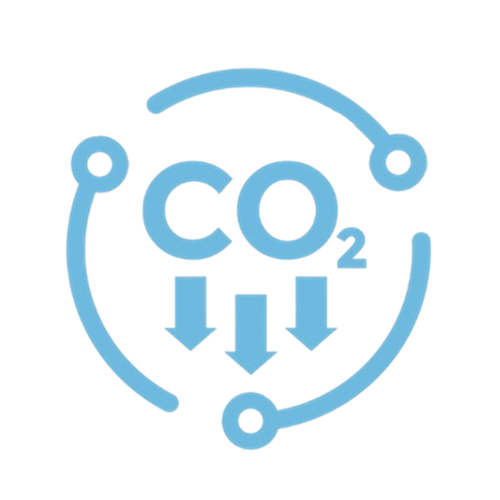
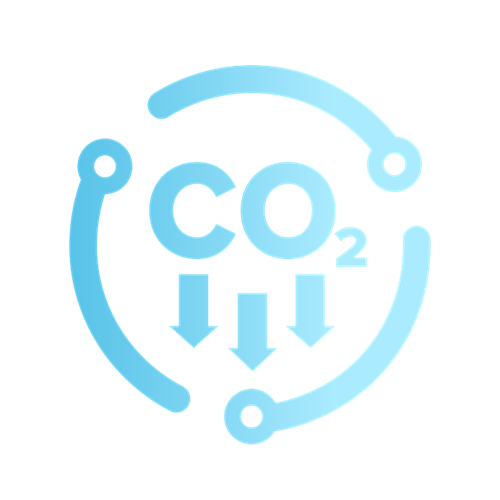
update images

Changed region(s): [[0.12, 0.27, 0.75, 0.84], [0.42, 0.45, 0.87, 0.9], [0.3, 0.12, 0.87, 0.39]]

diff --git a/oxygen-economy.html b/oxygen-economy.html
@@ -106,7 +106,7 @@
 
   <section class="oxygen-economy py-5 bg-light" style="border-top: 1px solid #85d0f8">
     <div class="container-fluid">
-      <div class="container py-4">
+      <div class="container py-5">
         <div class="row align-items-center pb-5">
           <div class="col-lg-8 wow fadeInLeft">
             <h1 class="display-4 text-capitalize text-dark mb-3">
@@ -268,8 +268,8 @@
                   <div class="card-inner">
                     <div class="card-front">
                       <div class="bg-white">
-                        <img src="asset/img/oxygen-economy/water.png" class="img-fluid rounded-top-4 d-block mx-auto"
-                          alt="tree" style="width: 180px" />
+                        <img src="asset/img/oxygen-economy/water-drop.png"
+                          class="img-fluid rounded-top-4 d-block mx-auto" alt="tree" style="width: 180px" />
                       </div>
                       <p class="text-dark text-center mt-3">Water<br />Purification</p>
                     </div>
@@ -544,7 +544,7 @@
             <div class="row g-4 pb-3">
               <div class="col-sm-6 wow fadeInUp" data-wow-delay="0.5s">
                 <div class="bg-light rounded">
-                  <img src="asset/img/oxygen-economy/a-vision-for-the-future-blue.png" class="card-img-top" alt="blog"
+                  <img src="asset/img/oxygen-economy/a-vision-for-the-future-blue.jpg" class="card-img-top" alt="blog"
                     style="width: 100%" />
                 </div>
                 <div class="card-body" style="padding: 10px 0 5px 0">

diff --git a/index.html b/index.html
@@ -107,7 +107,7 @@
   <!-- Home Start -->
   <section id="home" class="bg-light py-5" style="border-top: 1px solid #79b083">
     <div class="container-fluid">
-      <div class="container pt-4 pb-5">
+      <div class="container py-5">
         <div class="row align-items-center">
           <div class="col-lg-8 wow fadeInLeft">
             <h1 class="display-4 text-capitalize text-dark mb-1">
@@ -1035,7 +1035,7 @@
         <h4 class="text-dark">Our Team</h4>
       </div>
 
-      <div class="row row-cols-1 row-cols-sm-2 row-cols-lg-4 row-cols-xl-5 g-4 justify-content-center px-4">
+      <div class="row row-cols-1 row-cols-sm-2 row-cols-lg-4 row-cols-xl-5 g-4 justify-content-center px-4 px-lg-0">
         <div class="col wow fadeInUp" data-wow-delay="0.1s">
           <div class="team-card rounded-4 shadow overflow-hidden">
             <div class="flip-card-img-wrapper">
@@ -1197,7 +1197,7 @@
         </p>
       </div>
 
-      <div class="row row-cols-1 row-cols-sm-2 row-cols-lg-4 row-cols-xl-5 g-4 justify-content-center px-4">
+      <div class="row row-cols-1 row-cols-sm-2 row-cols-lg-4 row-cols-xl-5 g-4 justify-content-center px-4 px-lg-0">
         <div class="col wow fadeInUp" data-wow-delay="0.1s">
           <div class="team-card rounded-4 shadow overflow-hidden">
             <div class="">

diff --git a/local.html b/local.html
@@ -137,7 +137,7 @@
         </div>
 
         <div class="swiper-slide bg-breadcrumb"
-          style="background-image: url('asset/img/further-reading/local-cover-2.jpg')">
+          style="background-image: url('asset/img/further-reading/local-cover-2.webp')">
           <div class="bg-breadcrumb-single"></div>
 
           <div class="d-flex flex-column justify-content-center align-items-center h-100 position-relative">
